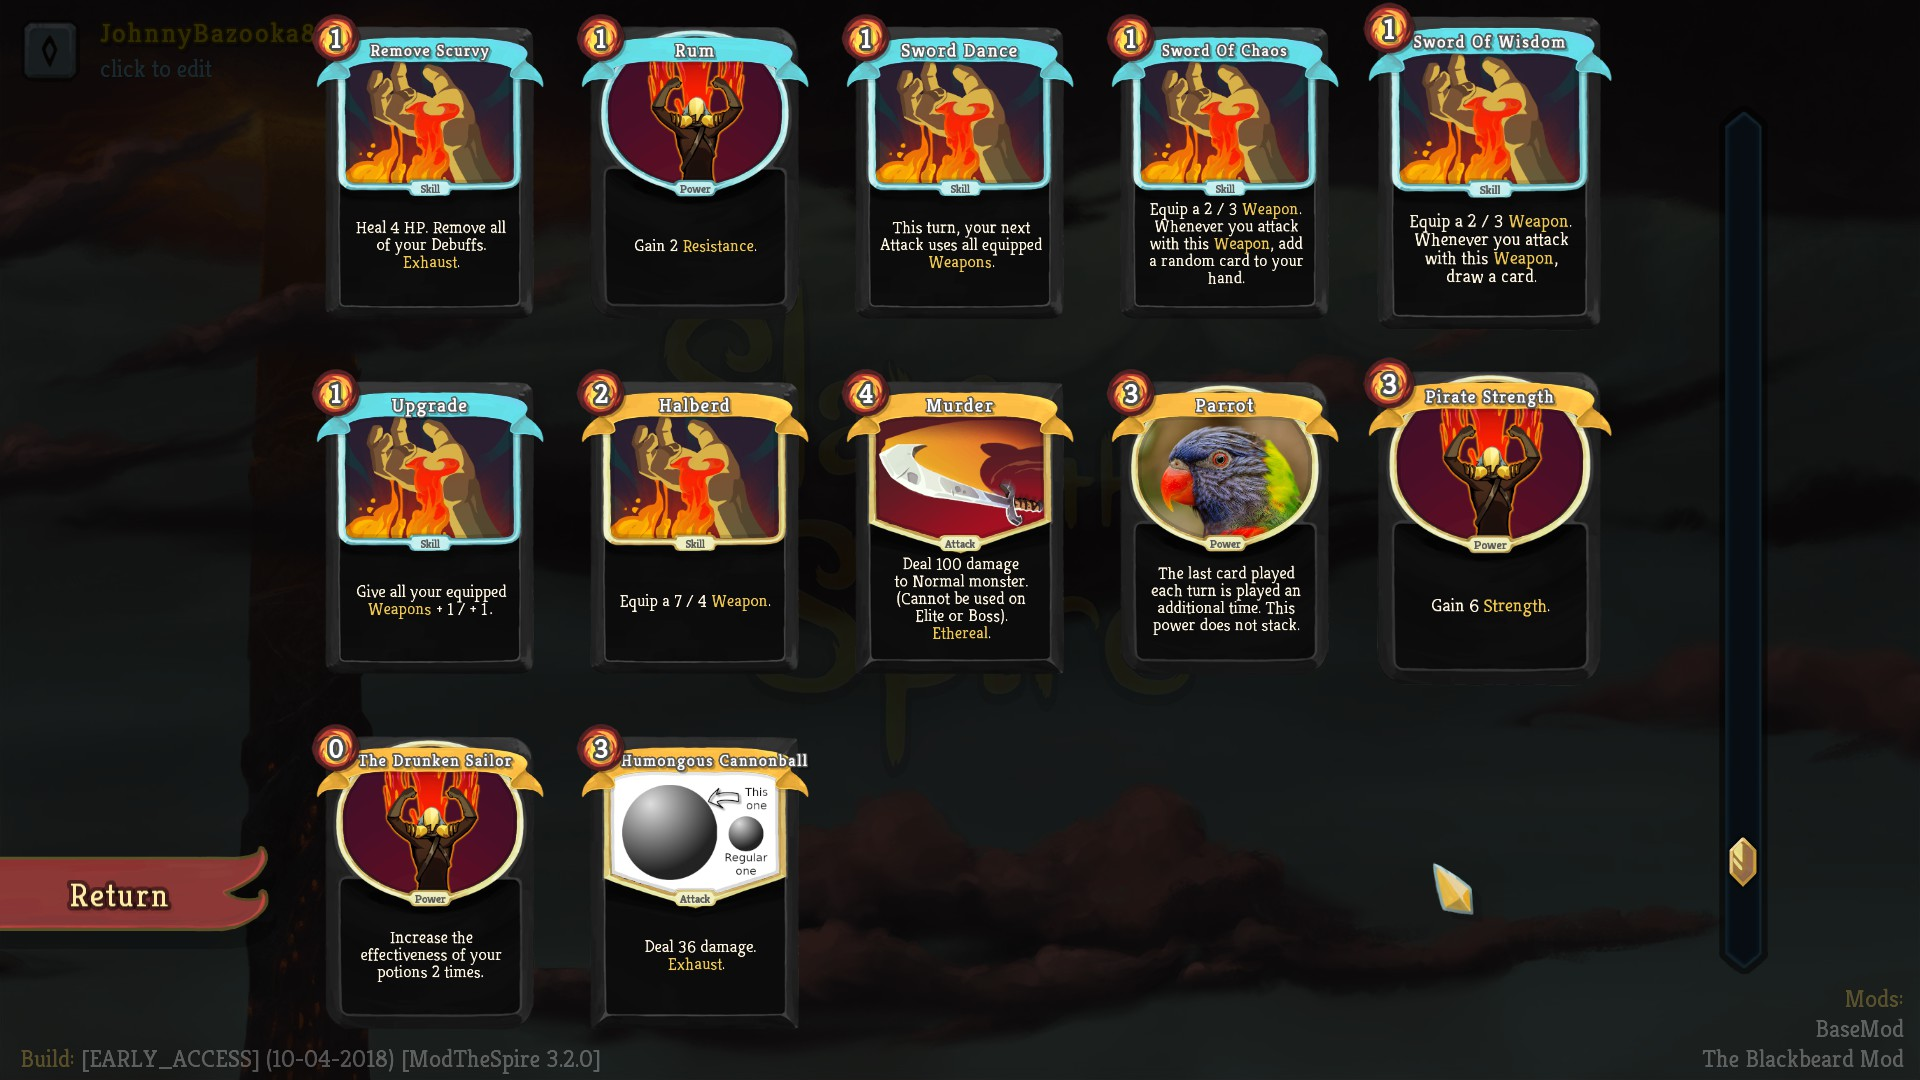
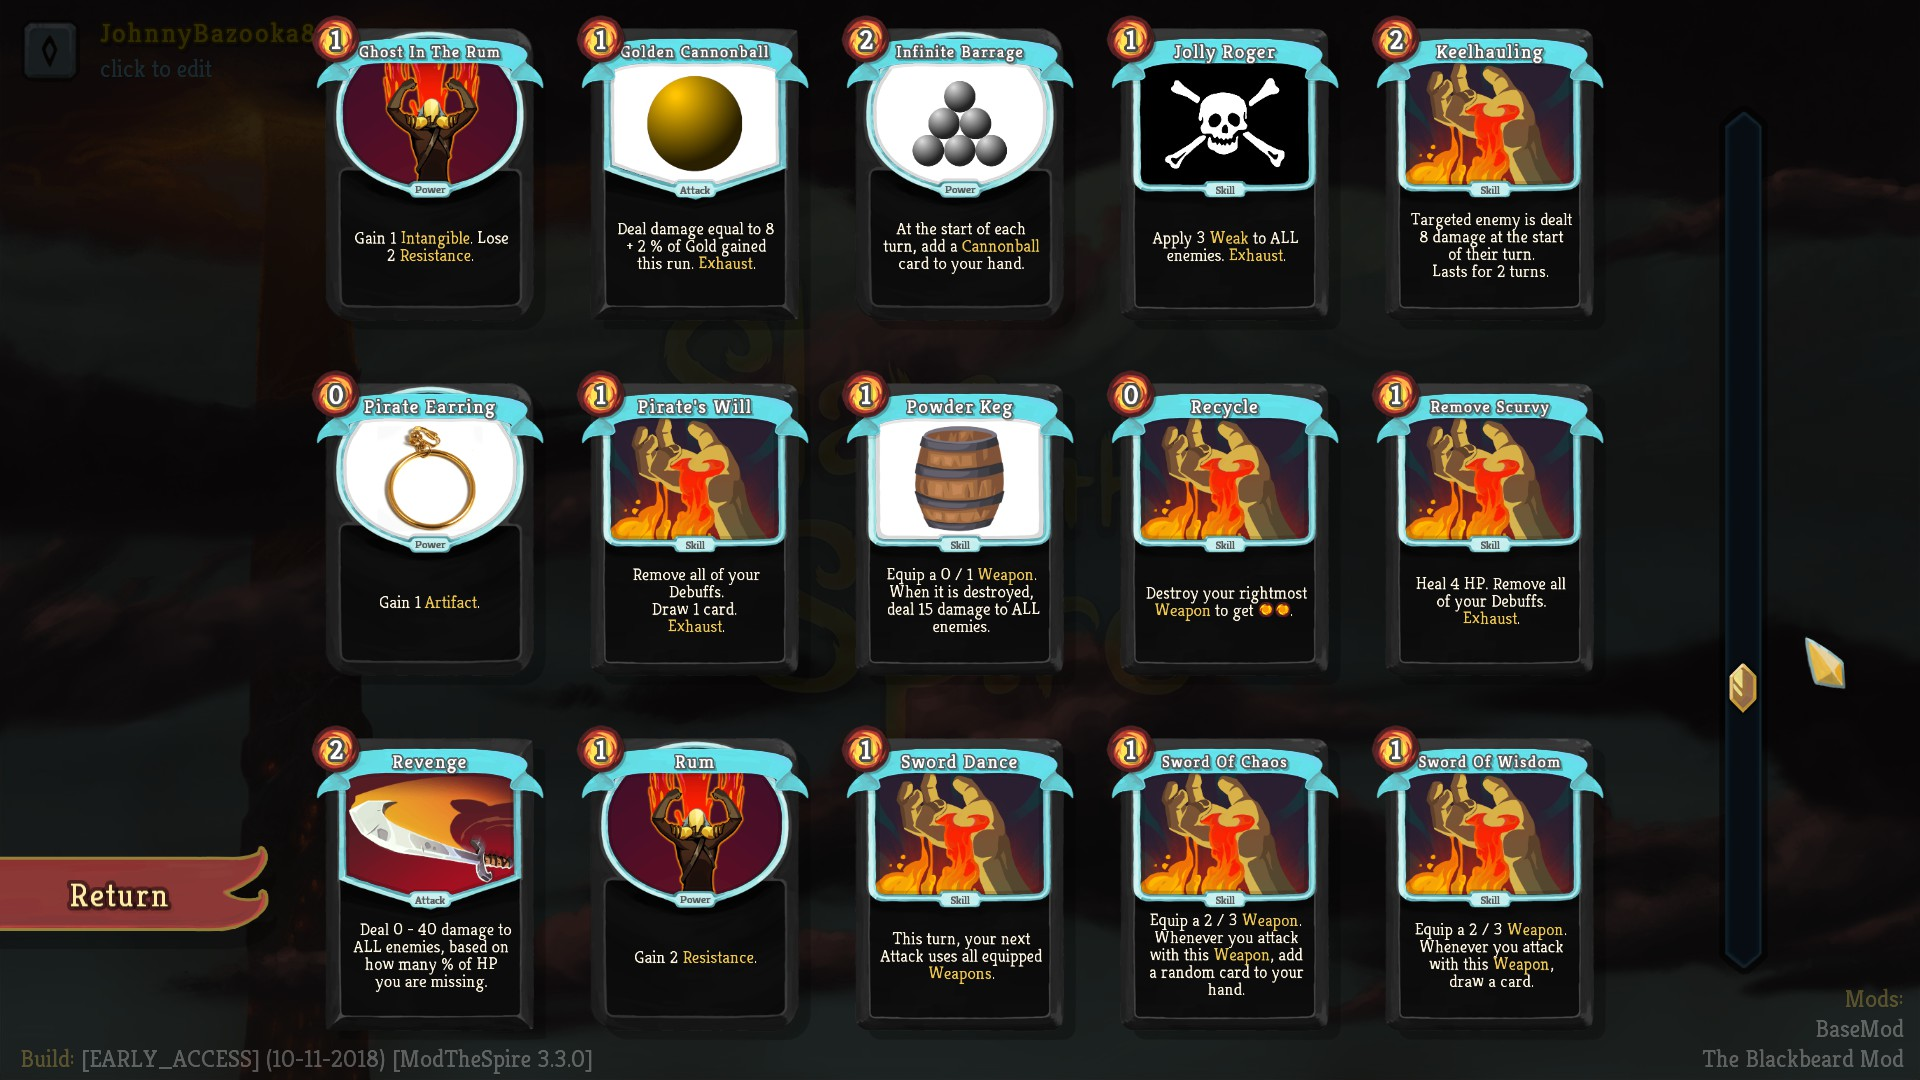
Version 0.0.2 readme updates.

diff --git a/README.md b/README.md
@@ -1,5 +1,5 @@
 # StSModTheBlackbeard
-This mod adds a new character for Slay The Spire, named The Blackbeard. Currently 37 cards of 75 planned are finished. Mod is currently under intensive development, so if you want to just play it, then please wait until it is finished and tested properly.
+This mod adds a new character for Slay The Spire, named The Blackbeard. Currently 50 cards of 75 planned are finished. Mod is currently under intensive development, so if you want to just play it, then please wait until it is finished and tested properly.
 
 The Blackbeard is a new class based on pirate theme. His most important mechanic are Weapons. There are many cards that allow to Equip a Weapon and each Weapon is characterized by its Attack and Durability. You can equip many Weapons, and they are queued using Defect's orb system. Every time you play an attack card, one Durability of your rightmost Weapon is used and card's damage is increased by Weapon's attack. You can Equip maximum of 10 Weapons. Weapons with zero durability are automatically destroyed. Orb slots are created automatically when you equip a Weapon and are automatically destroyed when Weapon is destroyed.
 
@@ -22,6 +22,8 @@ Currently developed cards:
 ![Cards2](screenshots/Cards2.jpg)
 
 ![Cards3](screenshots/Cards3.jpg)
+
+![Cards4](screenshots/Cards4.jpg)
 
 ## Requirements ##
 
